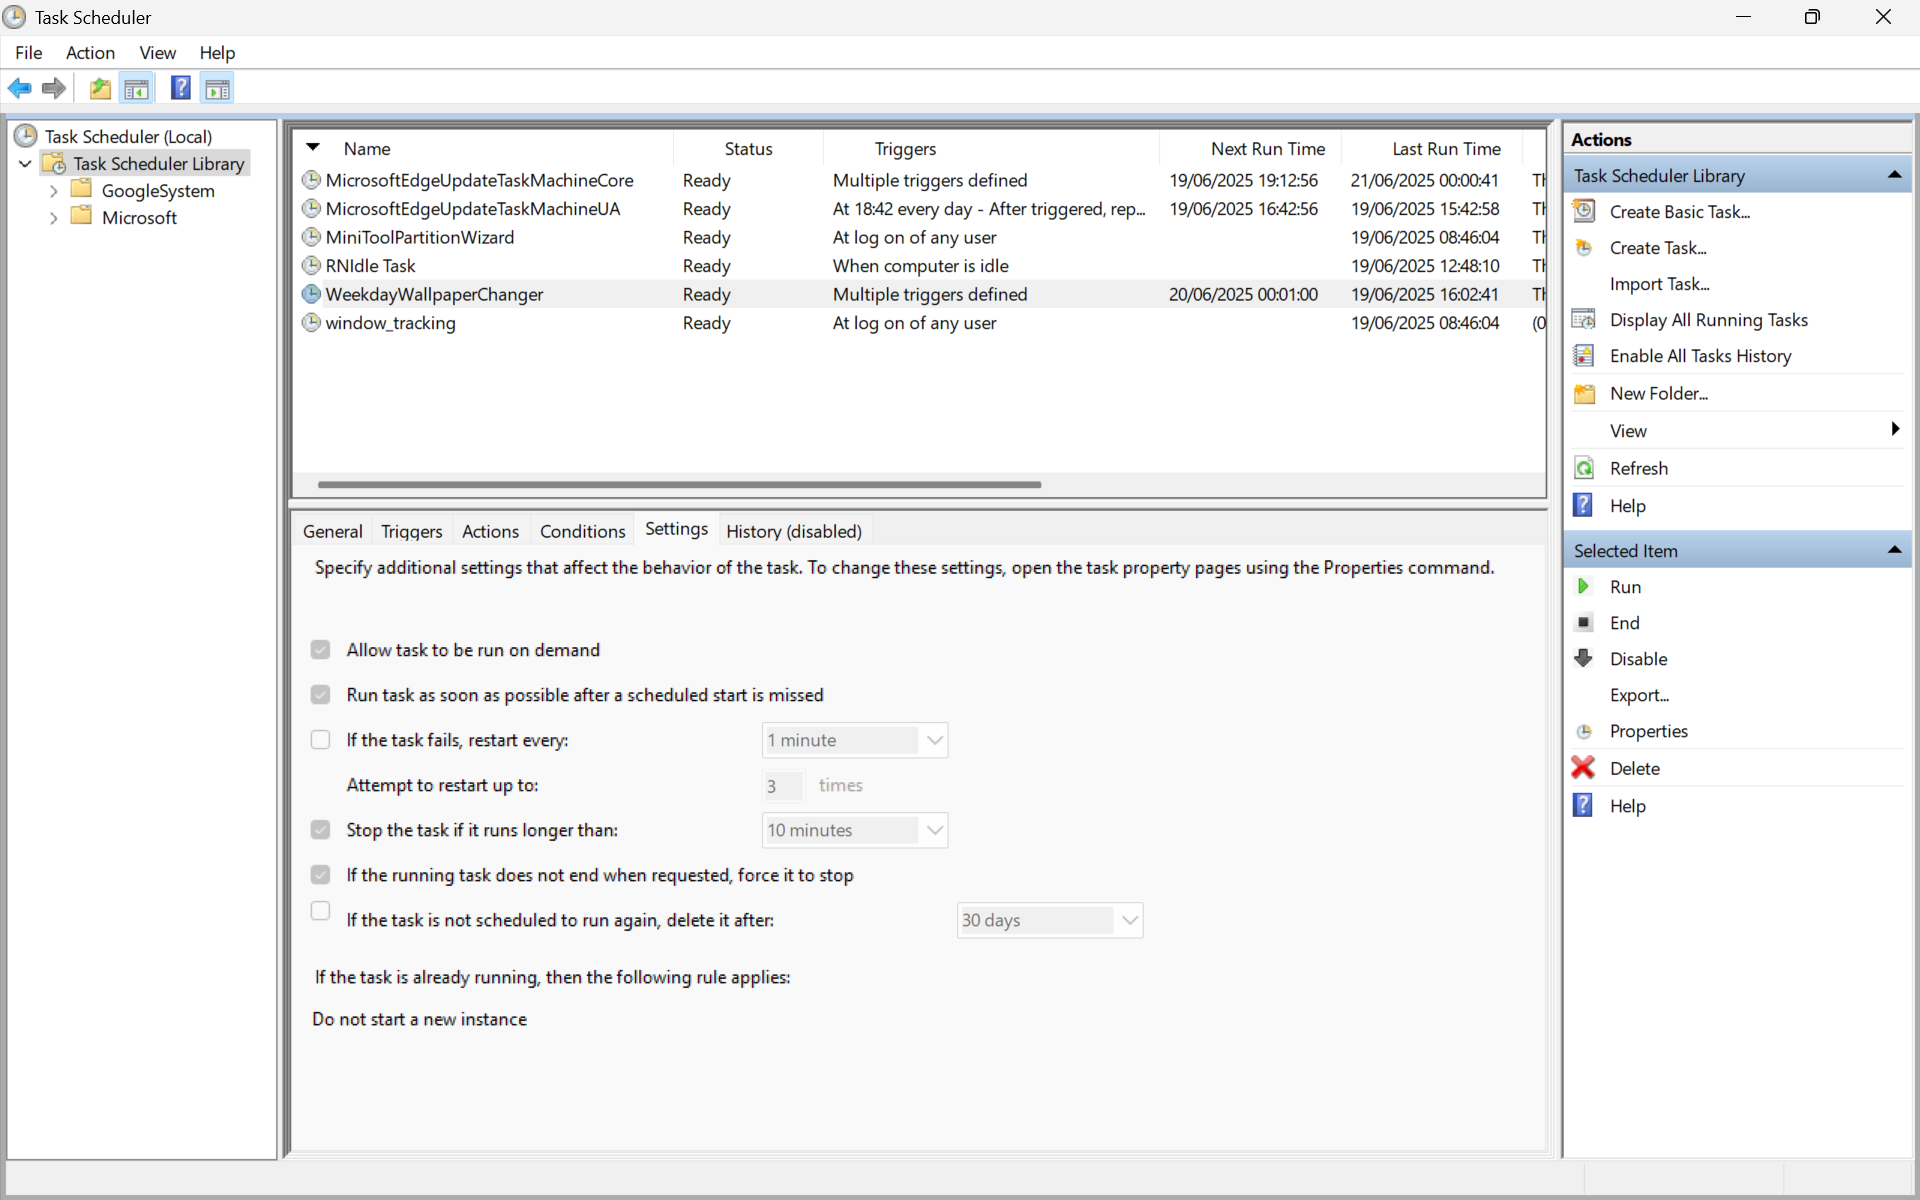
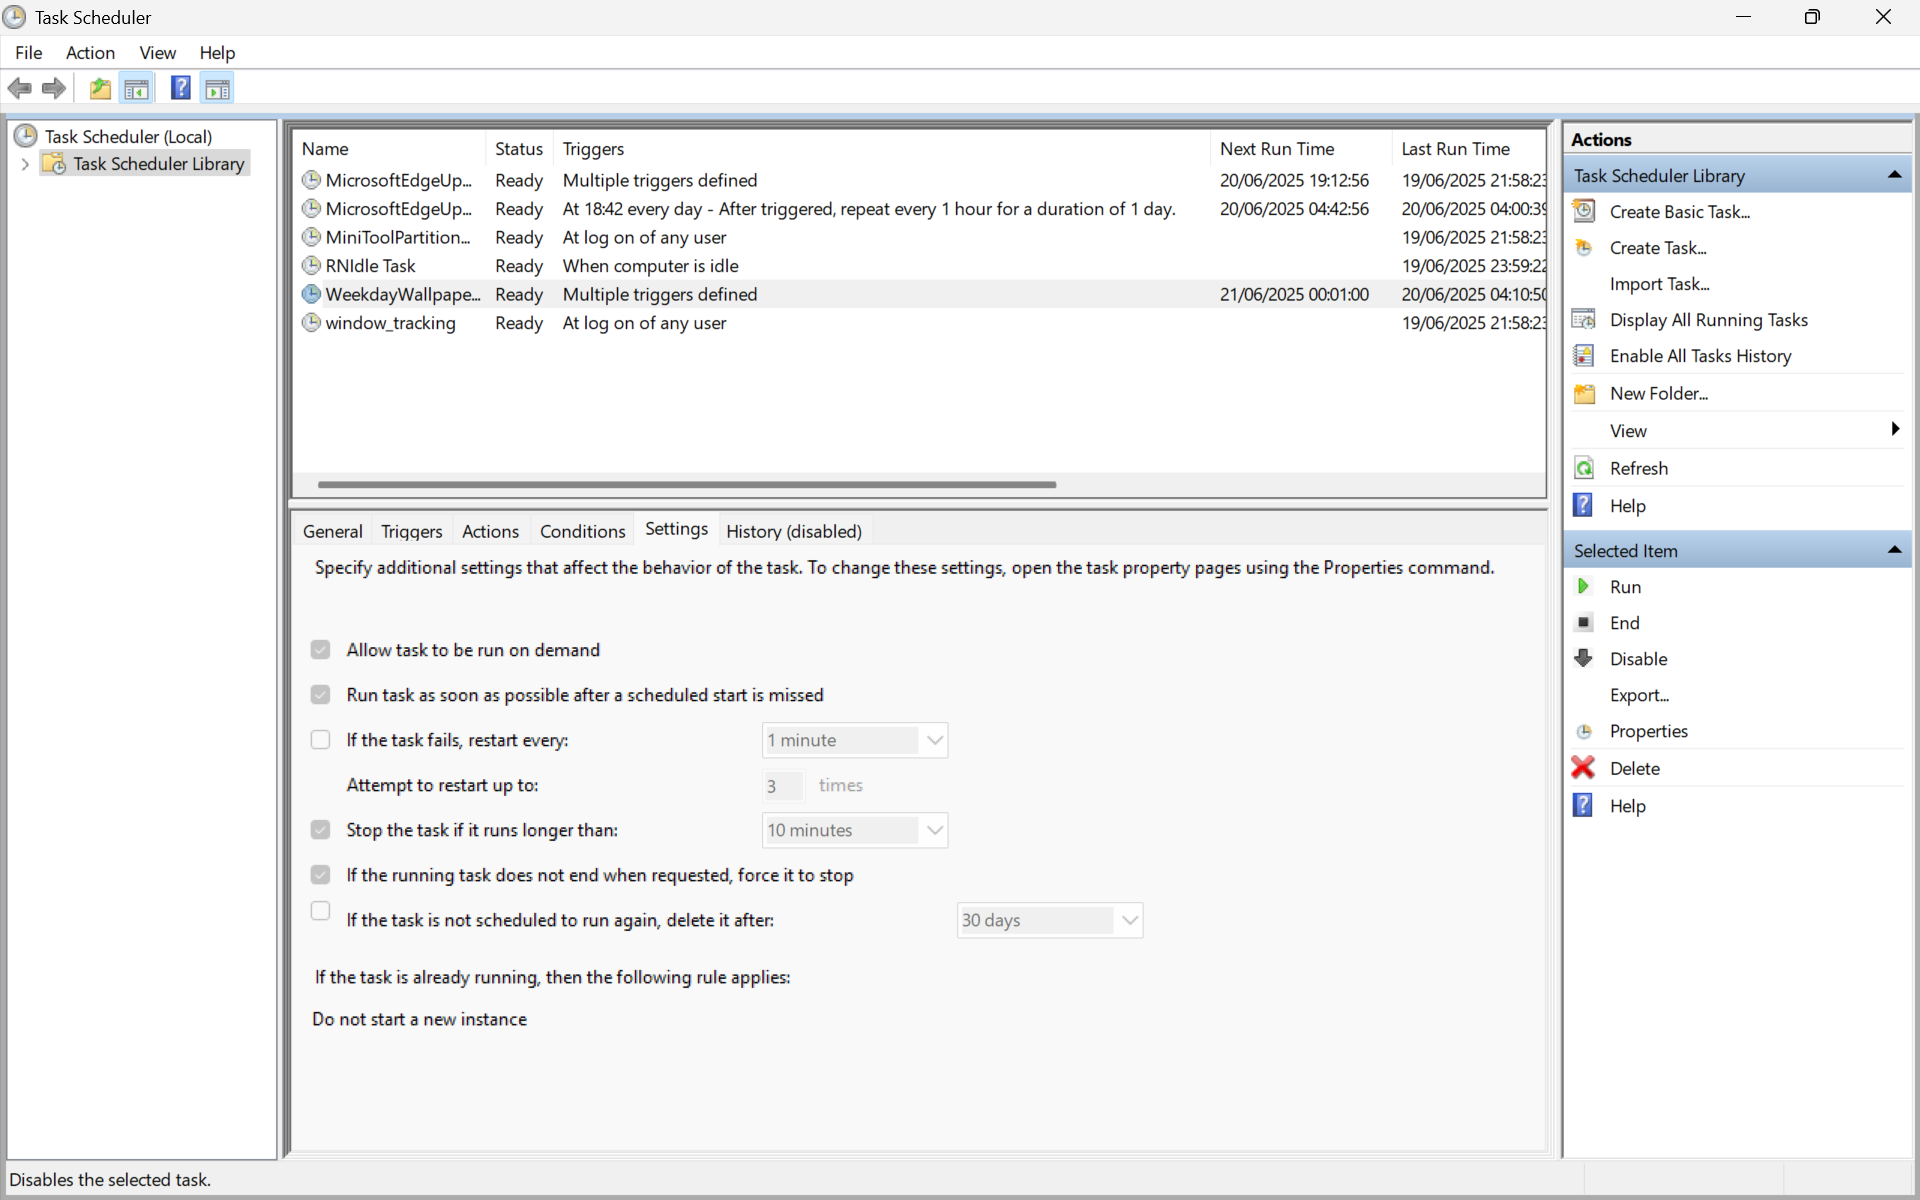
:memo: README update

diff --git a/README.md b/README.md
@@ -2,29 +2,188 @@
 
 **Change your desktop wallpaper automatically, based on the weekday — no manual fiddling required.**
 
+## Table of Contents
+
+- [Features](#-features)
+- [Image File Setup](#-image-file-setup)
+- [Installation](#-installation)
+- [Task Scheduler](#-task-scheduler)
+- [Manual Testing](#-manual-testing)
+- [Development](#-development)
+- [PS2EXE Conversion](#-ps2exe-conversion)
+
 ## 🚀 Features
 
 1. **Graphical Folder Selection**  
    - Easy GUI dialogs for picking image and script locations—no path-typing needed.
-2. **Flexible Script Installation**  
+
+2. **Wallpaper Display Mode Selection**  
+   - Choose how wallpaper images are displayed on your monitors:
+     - **Stretch**: Distorts image to fill screen exactly (no black bars)
+     - **Fill**: Crops image while maintaining aspect ratio (no black bars)
+     - **Fit**: Shows entire image (may have black bars)
+     - **Center**: Original size centered (may have black bars)
+     - **Span**: Spans image across all monitors as one continuous image
+
+3. **Multi-Format Image Support**  
+   - Supports JPG, JPEG, PNG, BMP, GIF, TIFF, WEBP formats
+   - Automatically detects file extensions for each weekday
+
+4. **Flexible Script Installation**  
    - Installer copies and patches the script for you; destination folder is user-chosen.
-3. **Automatic Path Patching**  
-   - The installer automatically updates image paths in your script.
-4. **Task Scheduler Automation**  
-   - Sets up a daily scheduled task at midnight to change wallpaper.
-5. **Error Handling and Cleanup**  
+
+5. **Automatic Path Patching**  
+   - The installer automatically updates image paths and wallpaper style settings in your script.
+
+6. **Advanced Task Scheduler Automation**  
+   - Sets up scheduled task with both daily (midnight) and logon triggers
+   - XML-based configuration for better control and reliability
+
+7. **Windows 11 Slideshow Conflict Resolution**  
+   - Multiple methods to ensure wallpaper changes work properly
+   - Disables slideshow mode and forces picture mode
+
+8. **Error Handling and Cleanup**  
    - Clear error messages, uninstall option included.
 
 ## 🖼 Image File Setup
 
-Place 7 images (e.g. `1-Sun.jpg`, `2-Mon.png`, `3-Tue.bmp`, ..., `7-Sat.webp`) in a folder of your choice.
+Place 7 images in a folder of your choice with these exact names:
+
+- `1-Sun` (Sunday)
+- `2-Mon` (Monday) 
+- `3-Tue` (Tuesday)
+- `4-Wed` (Wednesday)
+- `5-Thu` (Thursday)
+- `6-Fri` (Friday)
+- `7-Sat` (Saturday)
 
 **Supported image formats:** JPG, JPEG, PNG, BMP, GIF, TIFF, WEBP
 
+**Examples:**
+- `1-Sun.jpg`, `2-Mon.png`, `3-Tue.webp`, `4-Wed.bmp`, etc.
+- You can mix formats: `1-Sun.jpg`, `2-Mon.png`, `3-Tue.webp`
+
 The script will automatically detect the file extension for each weekday image.
 
-## 🛠 PowerShell Script Setup
+## 🛠 Installation
 
-Your `set_wallpaper.ps1` should use this line:
+1. **Run the Installer**: Execute `WeekdayWallpaperChanger_UnInstaller.ps1`
+2. **Select Image Folder**: Choose the folder containing your 7 weekday images
+3. **Select Script Location**: Choose where to install the wallpaper script (e.g., `C:\Scripts`)
+4. **Choose Display Mode**: Select how wallpaper should be displayed on your monitors
+5. **Automatic Setup**: The installer will:
+   - Copy and configure the wallpaper script
+   - Create Task Scheduler entry with daily and logon triggers
+   - Test the installation
+
+## 📅 Task Scheduler
+
+The installer creates a scheduled task named **"WeekdayWallpaperChanger"** with:
+
+- **Daily Trigger**: Runs at 12:01 AM every day
+- **Logon Trigger**: Runs when you log in
+- **Settings**: 
+  - Runs whether user is logged on or not
+  - Does not store passwords
+  - Runs with highest privileges
+  - Can be triggered manually
+
+### Before Installation
+![Task Scheduler before installation](pics/png/Task_Scheduler_before_installation.png)
+
+### After Installation
+![Task Scheduler after installation](pics/png/Task_Scheduler_after_installation.png)
+
+**Actions Tab:**
+![Task Scheduler Actions](pics/png/Task_Scheduler_after_installation_Actions.png)
+
+**Settings Tab:**
+![Task Scheduler Settings](pics/png/Task_Scheduler_after_installation_Settings.png)
+
+**Daily Trigger Settings:**
+![Daily Trigger](pics/png/Task_Scheduler_trigger_daily_and_at_log_on.png)
+
+## 🔧 Manual Testing
+
+### Via Task Scheduler GUI
+1. Open Task Scheduler (`taskschd.msc`)
+2. Find "WeekdayWallpaperChanger" in the task list
+3. Right-click and select "Run"
+
+![Manual test via GUI](pics/png/Task_Scheduler_run_manually_to_test.png)
+
+### Via Command Line
 ```powershell
-$imgPath = "{IMG_FOLDER}\$filename"
+# Run the scheduled task manually
+schtasks.exe /Run /TN "WeekdayWallpaperChanger"
+
+# Check active tasks
+schtasks.exe /Query /TN "WeekdayWallpaperChanger"
+```
+
+![Check active tasks](pics/png/Task_Scheduler_check_Active_Tasks.png)
+
+### Direct Script Execution
+```powershell
+# Run the wallpaper script directly
+PowerShell.exe -ExecutionPolicy Bypass -File "C:\Scripts\set_weekday_wallpaper.ps1"
+
+# Test with specific image
+PowerShell.exe -ExecutionPolicy Bypass -File "C:\Scripts\set_weekday_wallpaper.ps1" -ImagePath "C:\Images\1-Sun.jpg"
+```
+
+### Example Output
+![Daily wallpaper applied](pics/png/daily_wallpaper_applied__today_is_Thursday.png)
+
+## 🔧 Development
+
+### Running the Script
+```powershell
+# Interactive mode (shows install/uninstall dialog)
+PowerShell.exe -ExecutionPolicy Bypass -File "WeekdayWallpaperChanger_UnInstaller.ps1"
+
+# Install mode
+PowerShell.exe -ExecutionPolicy Bypass -File "WeekdayWallpaperChanger_UnInstaller.ps1" -Install
+
+# Uninstall mode  
+PowerShell.exe -ExecutionPolicy Bypass -File "WeekdayWallpaperChanger_UnInstaller.ps1" -Uninstall
+```
+
+### Command Chaining in PowerShell
+PowerShell 5.1 doesn't support `&&` operator. Use these alternatives:
+
+```powershell
+# Sequential execution (always runs both)
+command1; command2
+
+# Conditional execution
+if (command1) { command2 }
+
+# For PowerShell 7+ only
+command1 && command2
+```
+
+## 📦 PS2EXE Conversion
+
+Convert the PowerShell script to an executable:
+
+### Install PS2EXE Module
+```powershell
+Install-Module ps2exe -Scope CurrentUser -Force
+```
+
+### Convert to EXE
+```powershell
+Invoke-ps2exe -inputFile "WeekdayWallpaperChanger_UnInstaller.ps1" -outputFile "WeekdayWallpaperChanger.exe" -iconFile "pics\ico\WeekdayWallpaperChanger.ico" -noConsole
+```
+
+### Development Workflow
+```powershell
+# Edit script, then convert and test
+Invoke-ps2exe -inputFile "WeekdayWallpaperChanger_UnInstaller.ps1" -outputFile "WeekdayWallpaperChanger.exe" -iconFile "pics\ico\WeekdayWallpaperChanger.ico" -noConsole; .\WeekdayWallpaperChanger.exe
+```
+
+---
+
+**Note**: This tool is designed for Windows 11 and uses advanced wallpaper setting methods to handle slideshow conflicts and multi-monitor setups.
